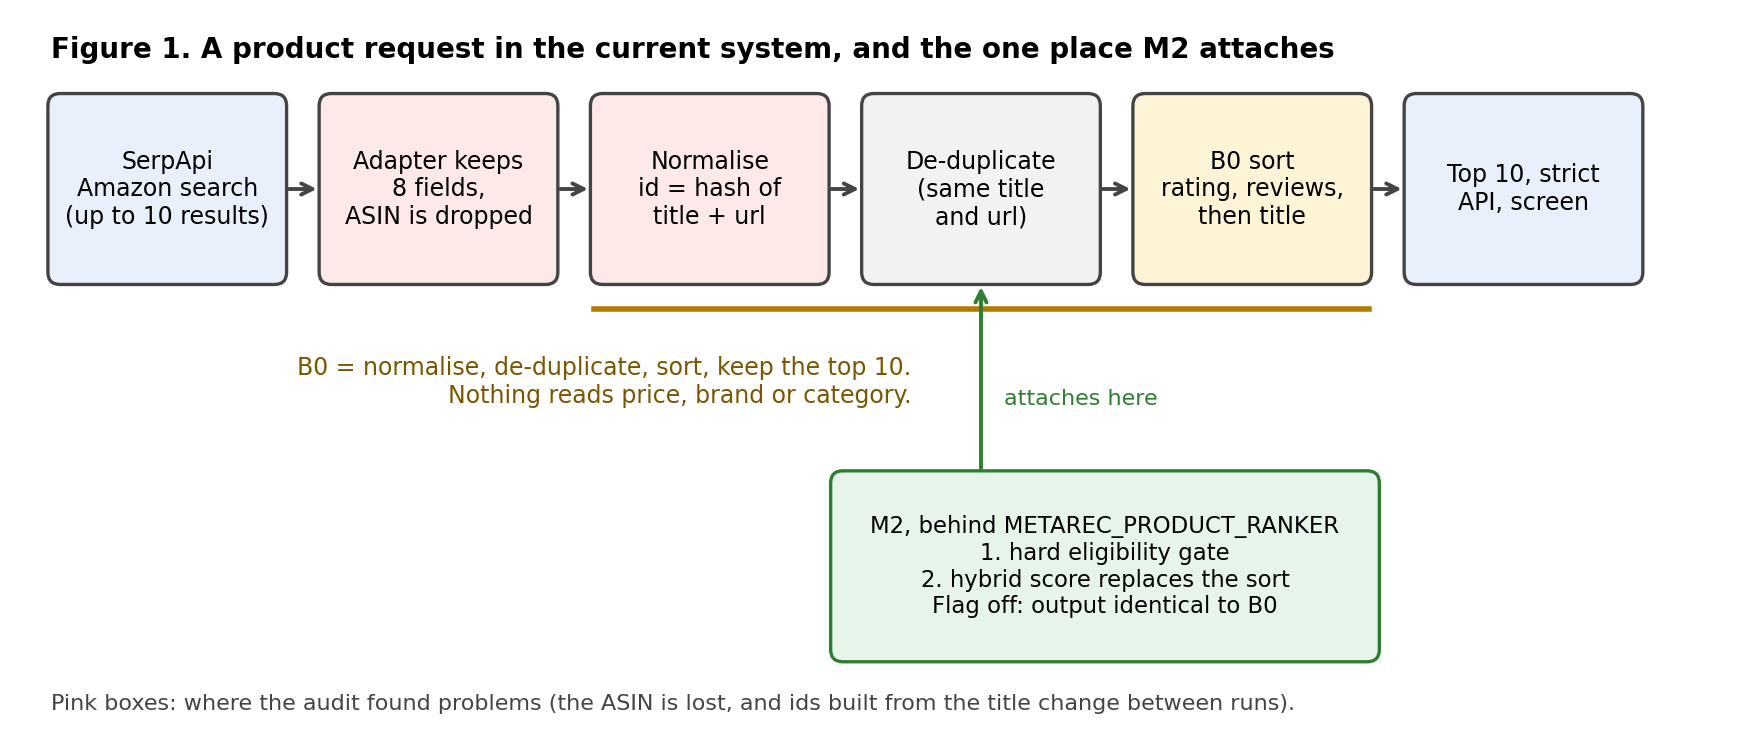
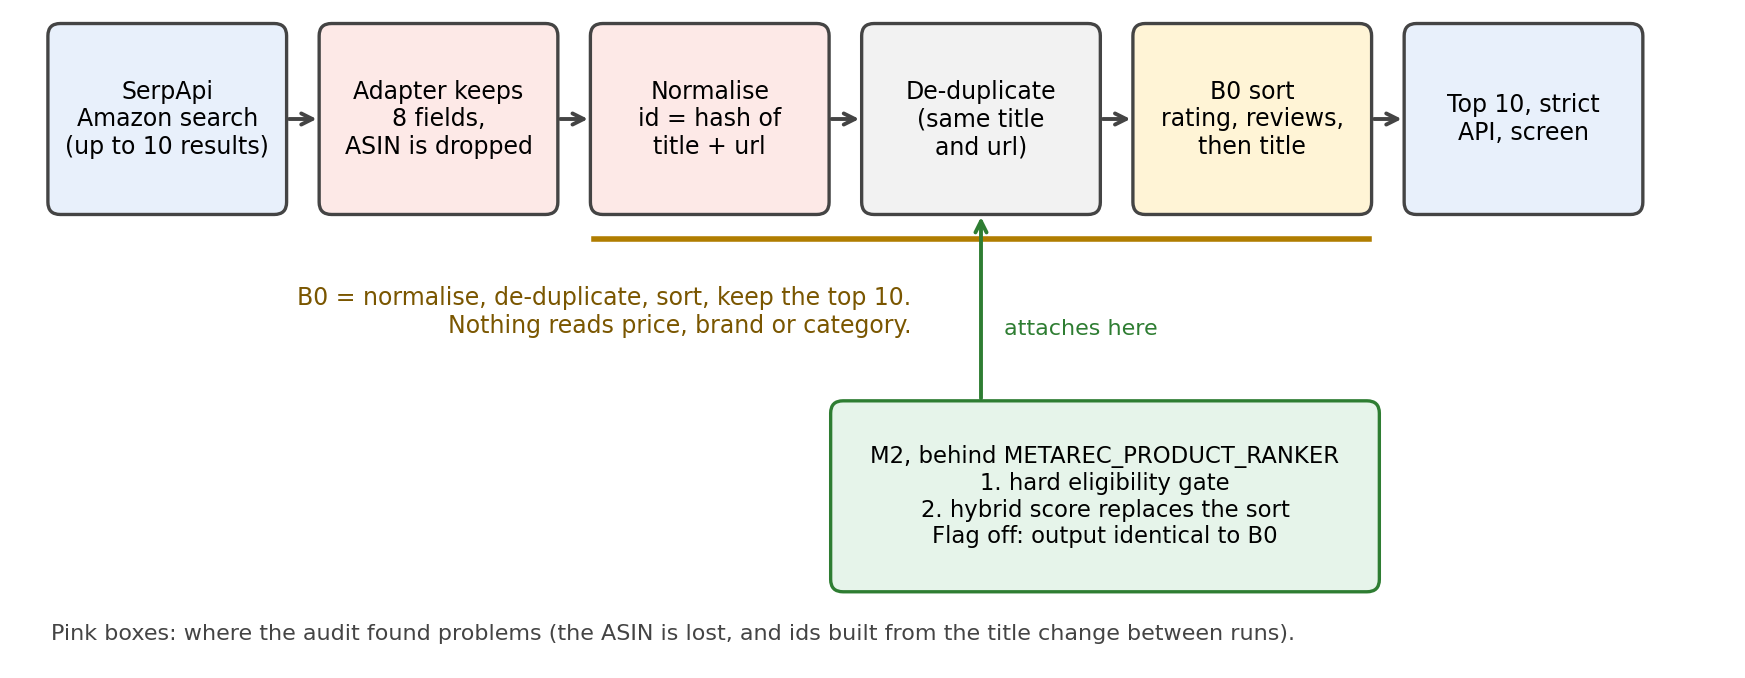
docs(wp4): crop baked-in titles off the diagrams, fix figure mentions and the graded-NDCG cross-reference
Fig. 1 and Fig. 5 images carried their own Figure 1/2 titles; in-text figure mentions now use Fig.; section 6 now points to 8.1 for the graded NDCG decision.

diff --git a/docs/wp4/D0-interim-report.md b/docs/wp4/D0-interim-report.md
@@ -44,7 +44,7 @@ split and constraint fixtures.*
 | Deliverable | Status | Where |
 |---|---|---|
 | D0 audit and B0 | **Done** | Sections 1 to 4; 15 frozen fixtures and golden files in `tests/wp4/` |
-| D1 data and features | **Done**, including the star ratings, leak-free item features and a complete data sheet | section 5; `docs/wp4/D1-data-sheet.md` |
+| D1 data and features | **Done**, including the star ratings, leak-free item features and a complete data sheet | Section 5; `docs/wp4/D1-data-sheet.md` |
 | D2 baselines | **Done** on development data; a popularity leak was found and the numbers re-run; confidence intervals, weight sweep and leak-free legacy B0 added (section 6) | Section 6; `scripts/wp4_build_eval_cases.py`, `scripts/wp4_run_baselines.py`, `scripts/wp4_sweep_ranks.py` |
 | D3 M2 ranker | **Done**: built, re-tuned with train-only popularity, tested (63 WP4 tests pass), ranker-only p95 11 to 19 ms against the 25 ms limit; on held-out users M2 beats B1 by +0.81% NDCG@10 (95% interval +0.69% to +0.94%), short of the 3% target, but +2.91% on the long-history slice (section 7.2) | Section 7; `langgraph_metarec/product_ranker_m2.py`, `scripts/wp4_m2_*.py` |
 | D4 integration | Not started (the hard-constraint gate already sits behind the flag) | Section 8 |
@@ -98,11 +98,11 @@ split and constraint fixtures.*
 
 What the captures show:
 
-1. **The budget is text.** Before searching, the app restates the request ("product: mechanical keyboard, category: keyboard, use case: Mac, budget: <= 120 USD") and waits for Confirm (Figure 2; pipeline steps 2 and 5). The budget is the string `<= 120 USD`, not a number.
-2. **The order is rating, then review count, and nothing else.** The first result has rating 5.0 from 5 reviews and the second has 4.8 from 51; the 4.4-rated results at ranks 5 and 6 have 3,800 and 153 reviews (Figure 3; step 11).
+1. **The budget is text.** Before searching, the app restates the request ("product: mechanical keyboard, category: keyboard, use case: Mac, budget: <= 120 USD") and waits for Confirm (Fig. 2; pipeline steps 2 and 5). The budget is the string `<= 120 USD`, not a number.
+2. **The order is rating, then review count, and nothing else.** The first result has rating 5.0 from 5 reviews and the second has 4.8 from 51; the 4.4-rated results at ranks 5 and 6 have 3,800 and 153 reviews (Fig. 3; step 11).
 3. **One result breaks the budget.** Rank 8, the Logitech MX Mechanical at $149.99 (rating 4.2, 2,200 reviews), is over the $120 limit and still sits above the $69.34 Keychron K8 at rank 10.
 4. **One result has no price.** Rank 9, the Logitech MX Mechanical Mini, shows no price line and no price chip, so a user cannot see its price and a budget check has nothing to compare (section 3.2).
-5. **What a card carries** (Figure 4). The picture, the title, a Product badge, the price as text under the title (the subtitle, because the brand is empty) and again as a chip, the rating, the review count, the source (Amazon), the line "Matched the product search query." and a View source link. There is no price field and no explanation beyond that one line.
+5. **What a card carries** (Fig. 4). The picture, the title, a Product badge, the price as text under the title (the subtitle, because the brand is empty) and again as a chip, the rating, the review count, the source (Amazon), the line "Matched the product search query." and a View source link. There is no price field and no explanation beyond that one line.
 6. **Guests have no feedback controls.** No Save, Not interested or Purchased controls appear on the cards when signed in as a guest (section 3.4).
 
 ---
@@ -228,7 +228,7 @@ Full detail and every checksum are in `docs/wp4/D1-data-sheet.md`. The short ver
 | NDCG@10 | 1.000 | 0.631 | 0.500 | 0.387 | 0.289 | 0 |
 | MRR@10 | 1.000 | 0.500 | 0.333 | 0.200 | 0.100 | 0 |
 
-The reported value of each metric is its mean over all 534,128 cases, each case counting once, so a user with many development interactions contributes to many cases. If two candidates tie, the sort keeps their order in the stored (shuffled) candidate list. A system that ranked at random would average Recall@10 = 0.10, NDCG@10 = 0.045 and MRR@10 = 0.029, which is the floor to read the results against. These metrics treat the real next item as relevant (gain 1) and every other candidate as not (gain 0). The Project Plan also decides a graded scheme from the star rating in the user's review of that item: 5 stars = 2, 4 stars = 1, below 4 = 0. Because each case has exactly one rated item, NDCG normalised by the ideal ranking is 1 / log2(rank + 1) for any positive grade and 0 for grade 0, so the difference between 2 and 1 cancels out. Graded NDCG@10 therefore equals the binary NDCG@10 with the 13.5% of cases whose real item was rated below 4 stars set to 0 (section 6.4). Keeping 2 and 1 apart would need an unnormalised DCG; that is a decision for the supervisor (section 8). Section 6.1 shows a full case: the real item at rank 71 scores 0 on all three.
+The reported value of each metric is its mean over all 534,128 cases, each case counting once, so a user with many development interactions contributes to many cases. If two candidates tie, the sort keeps their order in the stored (shuffled) candidate list. A system that ranked at random would average Recall@10 = 0.10, NDCG@10 = 0.045 and MRR@10 = 0.029, which is the floor to read the results against. These metrics treat the real next item as relevant (gain 1) and every other candidate as not (gain 0). The Project Plan also decides a graded scheme from the star rating in the user's review of that item: 5 stars = 2, 4 stars = 1, below 4 = 0. Because each case has exactly one rated item, NDCG normalised by the ideal ranking is 1 / log2(rank + 1) for any positive grade and 0 for grade 0, so the difference between 2 and 1 cancels out. Graded NDCG@10 therefore equals the binary NDCG@10 with the 13.5% of cases whose real item was rated below 4 stars set to 0 (section 6.4). Keeping 2 and 1 apart would need an unnormalised DCG; that is not done here (section 8.1). Section 6.1 shows a full case: the real item at rank 71 scores 0 on all three.
 
 **The three baselines** all run on the same 534,128 cases:
 
